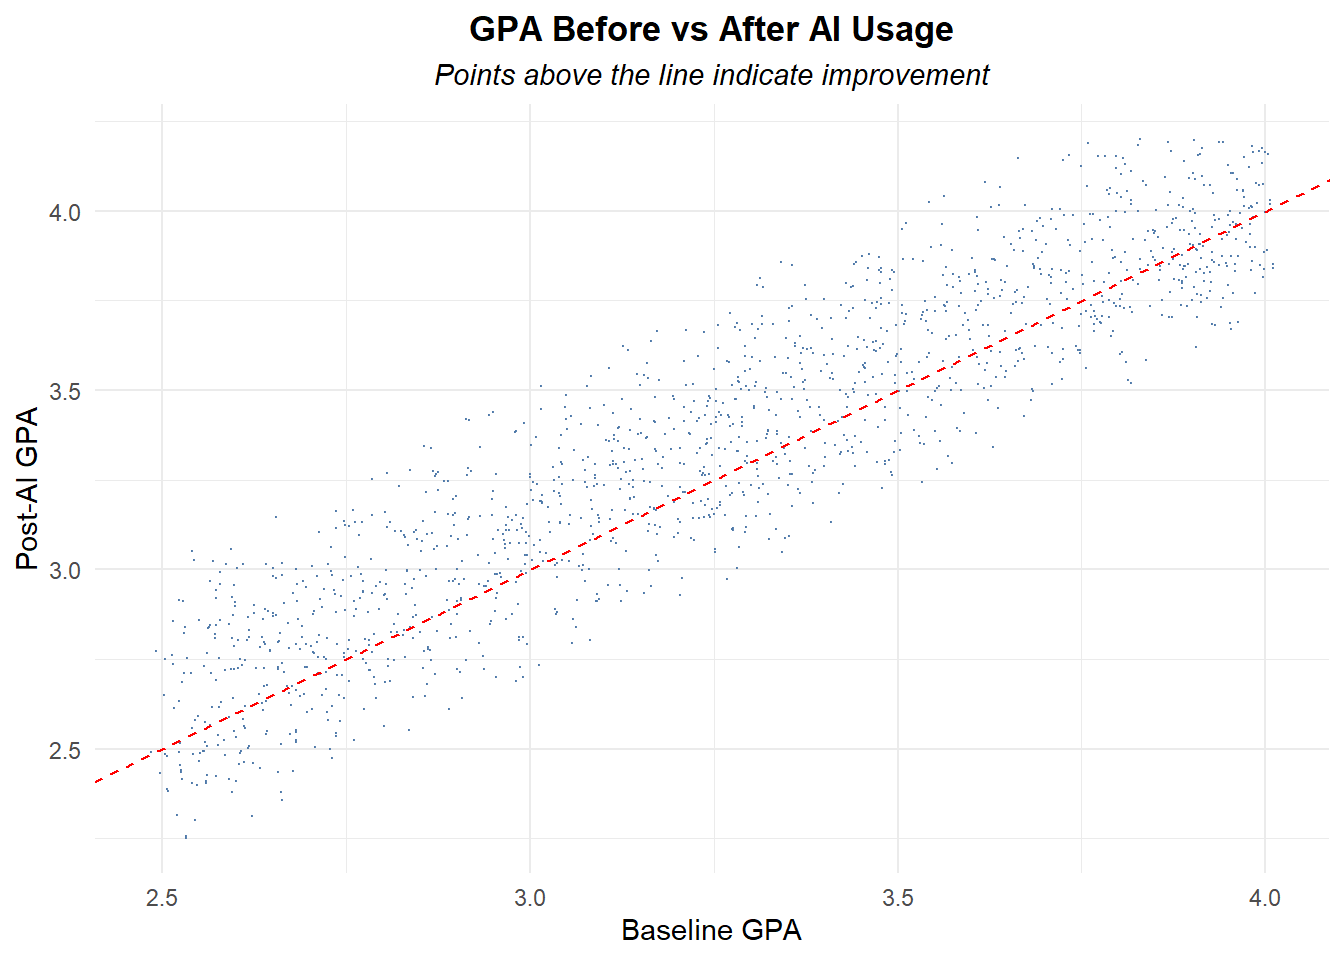
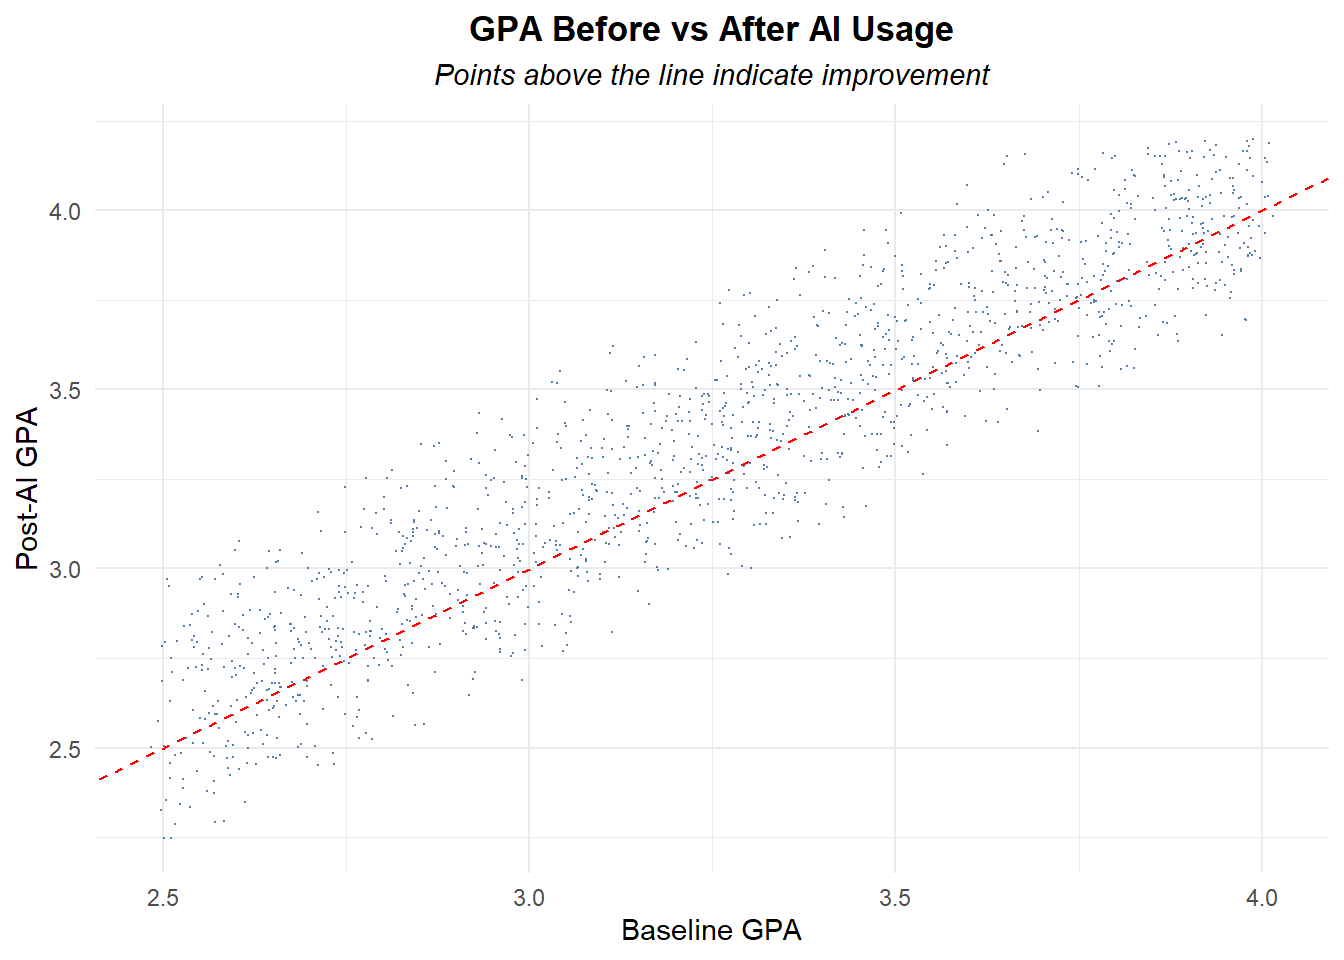
Update site

diff --git a/docs/fr/projects.html b/docs/fr/projects.html
@@ -181,9 +181,7 @@ pre > code.sourceCode > span > a:first-child::before { text-decoration: underlin
   <ul class="collapse">
   <li><a href="#ressources-du-projet" id="toc-ressources-du-projet" class="nav-link" data-scroll-target="#ressources-du-projet">Ressources du projet</a></li>
   <li><a href="#sec-project-overview" id="toc-sec-project-overview" class="nav-link" data-scroll-target="#sec-project-overview">Aperçu du projet</a></li>
-  </ul></li>
-  <li><a href="#analyse-des-données" id="toc-analyse-des-données" class="nav-link" data-scroll-target="#analyse-des-données">Analyse des données</a>
-  <ul class="collapse">
+  <li><a href="#analyse-des-données" id="toc-analyse-des-données" class="nav-link" data-scroll-target="#analyse-des-données">Analyse des données</a></li>
   <li><a href="#sec-analytical-questions" id="toc-sec-analytical-questions" class="nav-link" data-scroll-target="#sec-analytical-questions">Questions analytiques et variables principales</a></li>
   <li><a href="#sec-data-preparation" id="toc-sec-data-preparation" class="nav-link" data-scroll-target="#sec-data-preparation">Chargement et préparation des données (character variables -&gt; factors)</a>
   <ul class="collapse">
@@ -253,9 +251,9 @@ pre > code.sourceCode > span > a:first-child::before { text-decoration: underlin
 <p>Le projet est exploratoire. Étant donné que le jeu de données ne comprend pas de groupe de contrôle — un groupe distinct d’étudiants n’utilisant pas l’IA — les résultats ne permettent pas d’établir de relations causales. L’objectif n’est pas de prouver que l’IA améliore les résultats des étudiants, mais d’évaluer si les données disponibles soutiennent des relations statistiques significatives.</p>
 <hr>
 </section>
+<section id="analyse-des-données" class="level2">
+<h2 class="anchored" data-anchor-id="analyse-des-données">Analyse des données</h2>
 </section>
-<section id="analyse-des-données" class="level1">
-<h1>Analyse des données</h1>
 <section id="sec-analytical-questions" class="level2">
 <h2 class="anchored" data-anchor-id="sec-analytical-questions">Questions analytiques et variables principales</h2>
 <p>L’analyse se concentre sur cinq questions principales :</p>
@@ -575,7 +573,7 @@ $ Career_Confidence_Score &lt;dbl&gt; 3, 4, 7, 5, 9, 4, 1, 9, 8, 3, 4, 10, 4, 3,
 </div>
 </div>
 <p>La distribution est discrétisée, très probablement en raison d’effets d’arrondi dans les valeurs de GPA : un score de GPA dans le présent jeu de données est systématiquement arrondi.</p>
-<p>Cela limite la normalité stricte, mais la taille de l’échantillon (=1500) est suffisamment grande pour que le <strong>test t apparié</strong> reste robuste. Un <strong>test des rangs signés de Wilcoxon</strong> non paramétrique est également utilisé comme contrôle de robustesse dans la <a href="#sec-gpa-tests" class="quarto-xref">Section&nbsp;2.2.1.3</a>.</p>
+<p>Cela limite la normalité stricte, mais la taille de l’échantillon (=1500) est suffisamment grande pour que le <strong>test t apparié</strong> reste robuste. Un <strong>test des rangs signés de Wilcoxon</strong> non paramétrique est également utilisé comme contrôle de robustesse dans la <a href="#sec-gpa-tests" class="quarto-xref">Section&nbsp;1.5.1.3</a>.</p>
 <hr>
 </section>
 <section id="sec-gpa-tests" class="level4">
@@ -595,7 +593,7 @@ $ Career_Confidence_Score &lt;dbl&gt; 3, 4, 7, 5, 9, 4, 1, 9, 8, 3, 4, 10, 4, 3,
 <p><strong>Hypothèse nulle (H0) :</strong> Il n’y a pas de différence moyenne entre la GPA de base et la GPA post-IA.</p>
 <p><strong>Hypothèse alternative (H1) :</strong> Il existe une différence moyenne entre la GPA de base et la GPA post-IA.</p>
 <p><strong>Méthode :</strong> Un test t apparié est utilisé car les deux mesures de GPA sont observées pour les mêmes étudiants.</p>
-<p><strong>Hypothèses :</strong> L’hypothèse clé de normalité s’applique aux différences appariées. Comme le montre la <a href="#sec-gpa-distribution" class="quarto-xref">Section&nbsp;2.2.1.2</a>, la différence est discrétisée et n’est pas parfaitement normale. Cependant, compte tenu de la grande taille de l’échantillon, le test t apparié devrait rester robuste.</p>
+<p><strong>Hypothèses :</strong> L’hypothèse clé de normalité s’applique aux différences appariées. Comme le montre la <a href="#sec-gpa-distribution" class="quarto-xref">Section&nbsp;1.5.1.2</a>, la différence est discrétisée et n’est pas parfaitement normale. Cependant, compte tenu de la grande taille de l’échantillon, le test t apparié devrait rester robuste.</p>
 </div>
 </div>
 <div class="cell">
@@ -626,7 +624,7 @@ $ Career_Confidence_Score &lt;dbl&gt; 3, 4, 7, 5, 9, 4, 1, 9, 8, 3, 4, 10, 4, 3,
 <p><strong>Hypothèse nulle (H0) :</strong> La différence médiane appariée est égale à zéro.</p>
 <p><strong>Hypothèse alternative (H1) :</strong> La différence médiane appariée n’est pas égale à zéro.</p>
 <p><strong>Méthode :</strong> Le test des rangs signés de Wilcoxon classe les différences appariées absolues et vérifie si les rangs positifs et négatifs sont équilibrés.</p>
-<p><strong>Raison de l’utilisation :</strong> Ce test est moins sensible aux écarts par rapport à la normalité et est approprié comme contrôle de robustesse après les résultats du diagnostic dans la <a href="#sec-gpa-distribution" class="quarto-xref">Section&nbsp;2.2.1.2</a>.</p>
+<p><strong>Raison de l’utilisation :</strong> Ce test est moins sensible aux écarts par rapport à la normalité et est approprié comme contrôle de robustesse après les résultats du diagnostic dans la <a href="#sec-gpa-distribution" class="quarto-xref">Section&nbsp;1.5.1.2</a>.</p>
 </div>
 </div>
 <div class="cell">
@@ -669,7 +667,7 @@ $ Career_Confidence_Score &lt;dbl&gt; 3, 4, 7, 5, 9, 4, 1, 9, 8, 3, 4, 10, 4, 3,
 <p><strong>Hypothèse nulle (H0) :</strong> Les variables d’utilisation de l’IA n’ont aucune association avec le changement de GPA.</p>
 <p><strong>Hypothèse alternative (H1) :</strong> Au moins une variable d’utilisation de l’IA est associée au changement de GPA.</p>
 <p><strong>Méthode :</strong> La régression MCO est utilisée comme premier modèle explicatif.</p>
-<p><strong>Hypothèses et diagnostics :</strong> Les diagnostics des résidus sont inspectés après l’estimation du modèle. Comme discuté dans la <a href="#sec-gpa-distribution" class="quarto-xref">Section&nbsp;2.2.1.2</a>, la variable dépendante est discrétisée, le modèle est donc traité comme exploratoire plutôt que définitif en termes d’analyse d’impact.</p>
+<p><strong>Hypothèses et diagnostics :</strong> Les diagnostics des résidus sont inspectés après l’estimation du modèle. Comme discuté dans la <a href="#sec-gpa-distribution" class="quarto-xref">Section&nbsp;1.5.1.2</a>, la variable dépendante est discrétisée, le modèle est donc traité comme exploratoire plutôt que définitif en termes d’analyse d’impact.</p>
 </div>
 </div>
 <div class="cell">
